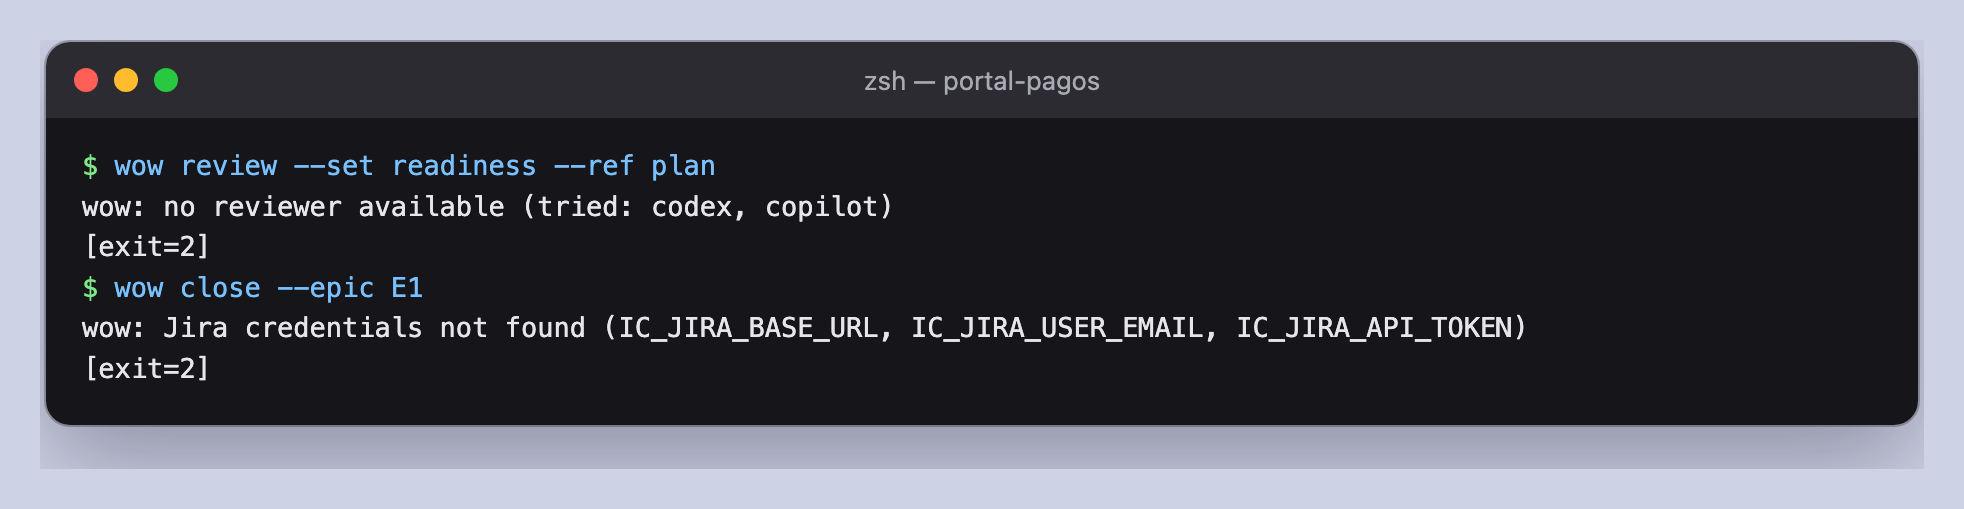
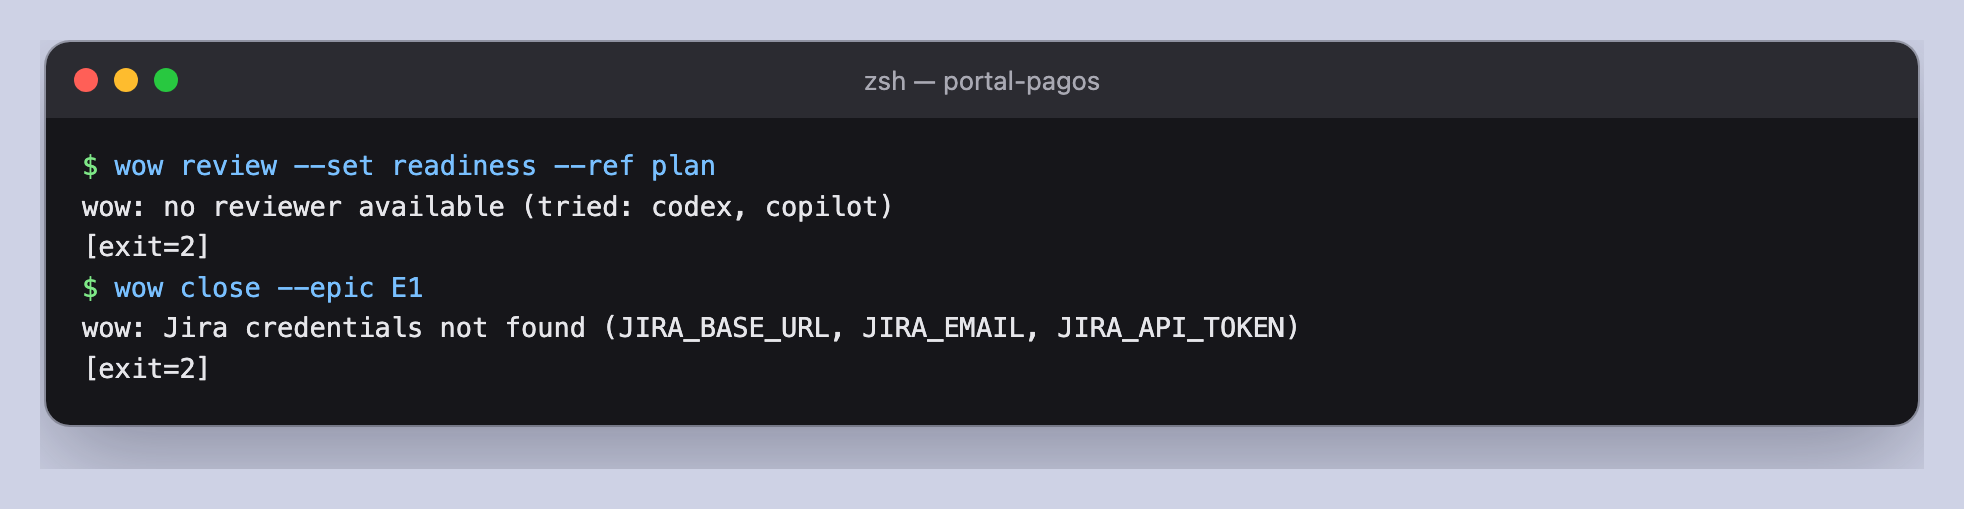
docs: documentar JIRA_* como unicas variables de Jira y regenerar capturas

Changed region(s): [[0.3106, 0.6189, 0.7765, 0.6778]]

diff --git a/docs/img/src/cursor-cierre.html b/docs/img/src/cursor-cierre.html
@@ -16,5 +16,5 @@ code{font:12.5px Menlo,monospace;background:#2b2b34;padding:1px 5px;border-radiu
 .cmd{background:#101014;border:1px solid #32323c;border-radius:8px;padding:10px 12px;font:12.5px Menlo,monospace;color:#79c0ff;margin:0 0 10px;white-space:pre-wrap}
 .in{margin:6px 22px 16px;border:1px solid #3a3a46;border-radius:10px;padding:10px 14px;color:#6c6c7a;font-size:13px}
 .right{flex:1;display:flex;flex-direction:column;min-width:0}</style><div class="win"><div class="bar"><div class="dots"><span class="r"></span><span class="y"></span><span class="g"></span></div><div class="ttl">portal-pagos — agente (Claude Code o Codex)</div></div><div class="main"><div class="side"><b>EXPLORER</b><div class="hot">▾ portal-pagos</div><div class="i">▸ portal-api</div><div class="i">▾ wow</div><div class="j">checklists</div><div class="j">context-pack</div><div class="j">pb</div><div class="j">plan</div><div class="i">▸ specs</div></div><div class="right"><div class="chat"><div class="u">Terminó la épica E1. ¿Qué queda abierto en Jira?</div><div class="a"><p>Corro el cierre en seco, que no escribe nada.</p><span class="chip"><em>Ran</em> wow close --epic E1
-<span>wow: Jira credentials not found (IC_JIRA_BASE_URL, IC_JIRA_USER_EMAIL, IC_JIRA_API_TOKEN)
+<span>wow: Jira credentials not found (JIRA_BASE_URL, JIRA_EMAIL, JIRA_API_TOKEN)
 [exit=2]</span></span><p><i>Maqueta, con datos ficticios.</i> Con las credenciales de Jira, el dry run lista las subtareas y la épica que siguen abiertas. Te muestro la lista y no corro <code>--apply</code> sin tu confirmación: es la única escritura de <code>wow</code> hacia afuera (más <code>wow jira fix-fields --apply</code>).</p></div></div><div class="in">Pedile algo al agente…</div></div></div></div>

diff --git a/docs/img/src/terminal-sin-red.html b/docs/img/src/terminal-sin-red.html
@@ -9,5 +9,5 @@
 <span class="o">wow: no reviewer available (tried: codex, copilot)</span>
 <span class="o">[exit=2]</span>
 <span class="p">$</span> <span class="k">wow close --epic E1</span>
-<span class="o">wow: Jira credentials not found (IC_JIRA_BASE_URL, IC_JIRA_USER_EMAIL, IC_JIRA_API_TOKEN)</span>
+<span class="o">wow: Jira credentials not found (JIRA_BASE_URL, JIRA_EMAIL, JIRA_API_TOKEN)</span>
 <span class="o">[exit=2]</span></div></div>

diff --git a/tests/test_docs.py b/tests/test_docs.py
@@ -54,13 +54,19 @@ class DocsTest(unittest.TestCase):
         for skill in SKILLS:
             self.assertIn(f"| `{skill}` |", showcase)
 
-    def test_the_docs_name_the_jira_variables_the_code_reads(self):
-        # config.resolve_jira_credentials reads IC_JIRA_* from the shell and .env.local; the docs must not tell a new
-        # install to set variables wow does not read there
+    def test_the_docs_name_the_generic_jira_variables_and_not_the_personal_ones(self):
+        # config.resolve_jira_credentials reads JIRA_* in every layer and IC_JIRA_* as a personal alias; a new install
+        # is told only the generic names
         for page in (DOCS / "instalacion.md", DOCS / "instalacion-detallada.md"):
             text = page.read_text(encoding="utf-8")
-            for name in ("IC_JIRA_BASE_URL", "IC_JIRA_USER_EMAIL", "IC_JIRA_API_TOKEN"):
+            for name in ("JIRA_BASE_URL", "JIRA_EMAIL", "JIRA_API_TOKEN"):
                 self.assertIn(name, text, f"{page.name} does not name {name}")
+        for path in [*PAGES, ROOT / "AGENTS.md", *(ROOT / "skills").glob("*/SKILL.md"), *(DOCS / "img" / "src").glob("*.html")]:
+            self.assertNotIn("IC_JIRA", path.read_text(encoding="utf-8"), f"{path.name} advertises the personal IC_JIRA_* names")
+
+    def test_the_guide_skill_declares_the_generic_names(self):
+        header = (ROOT / "skills" / "wow-guide" / "SKILL.md").read_text(encoding="utf-8").split("---")[1]
+        self.assertIn("JIRA_BASE_URL", header)
 
     def test_every_image_has_its_html_source(self):
         for png in (DOCS / "img").glob("*.png"):

diff --git a/docs/instalacion.md b/docs/instalacion.md
@@ -84,13 +84,13 @@ y Jira figura como no configurado.
 no por el chat. Son las variables que `wow` lee:
 
 ```bash
-export IC_JIRA_BASE_URL="https://tu-empresa.atlassian.net"   # sin barra final
-export IC_JIRA_USER_EMAIL="vos@tu-empresa.com"
-export IC_JIRA_API_TOKEN="el-token-que-copiaste"
+export JIRA_BASE_URL="https://tu-empresa.atlassian.net"   # sin barra final
+export JIRA_EMAIL="vos@tu-empresa.com"
+export JIRA_API_TOKEN="el-token-que-copiaste"
 ```
 
-Opcionales: `IC_JIRA_PROJECT_KEY` e `IC_JIRA_EPIC_CHILD_MODE`. Como último recurso, `wow` lee `JIRA_BASE_URL`,
-`JIRA_EMAIL` y `JIRA_API_TOKEN` del `.spec-kit/.env` de Spec-Kit. Nunca las imprime ni las commitees.
+Opcionales: `JIRA_PROJECT_KEY` e `JIRA_EPIC_CHILD_MODE`. Como último recurso, `wow` lee las mismas variables del
+`.spec-kit/.env` de Spec-Kit. Nunca las imprime ni las commitees.
 
 **c) Comprobá que las ve.** Abrí una terminal nueva (para que cargue las variables) y pedile:
 
@@ -154,7 +154,7 @@ Como `install.sh` solo crea enlaces hacia tu clon, un `git pull` actualiza el CL
 |---|---|---|
 | `wow: command not found` | `~/.local/bin` no está en el PATH | Agregalo a tu `~/.zshrc` y abrí una terminal nueva |
 | `refusing to replace …: it is not a symlink` y código 1 | Ya hay un directorio real con el nombre de una skill | Movelo a otro lado y volvé a correr `./install.sh --skills`; el instalador no lo borra |
-| Jira figura `sin verificar: jira no configurado` | Las variables `IC_JIRA_*` no llegaron al proceso | Revisá el [paso 3](#3-credenciales-de-jira) y abrí una terminal nueva |
+| Jira figura `sin verificar: jira no configurado` | Las variables `JIRA_*` no llegaron al proceso | Revisá el [paso 3](#3-credenciales-de-jira) y abrí una terminal nueva |
 | Jira responde como anónimo o da 401 | El token se creó con alcance | Creá uno nuevo con **Create API token** a secas |
 | `wow review` sale con 2: `no reviewer available` | No hay Codex ni Copilot en el PATH, o no pasaron la prueba | Instalá y logueá uno de los dos |
 | `wow sk run` sale con 2: `ric.py not found` | Falta la skill `run-in-cursor` | Instalala (su `install.sh`) o apuntá `WOW_RIC` a su `ric.py` |

diff --git a/docs/referencia.md b/docs/referencia.md
@@ -31,7 +31,7 @@ con el mismo nombre: en ese caso sale con código 1 y dice cuál es. `--bin-dir 
 | CLI de Codex (o Copilot) logueado | revisor independiente de `wow review` y `wow pbchat audit --deep` | `wow review` sale con 2 (no pude evaluar) |
 | `gh` logueado | links a PRs en el snapshot y el dashboard | el snapshot marca GitHub como no disponible |
 | Skill `run-in-cursor`, `cursor-agent` y tmux | `wow sk run` | `wow sk run` sale con 2 y dice que no encuentra `run-in-cursor` (`ric.py`; se puede apuntar con `WOW_RIC`) |
-| Token de Jira **sin scopes** (`IC_JIRA_*`, ver abajo) | estado de las épicas y `wow close` | Jira figura como no configurado |
+| Token de Jira **sin scopes** (`JIRA_*`, ver abajo) | estado de las épicas y `wow close` | Jira figura como no configurado |
 
 Un token de Jira con scopes responde 401 contra `https://<sitio>.atlassian.net` y Jira contesta como anónimo, así que
 parece falta de permisos. La prueba que separa los dos casos es `GET /rest/api/3/myself`.
@@ -119,9 +119,9 @@ Para ver costos estimados, cargá una tabla de precios (USD por millón de token
 {"pricing": {"as_of": "2026-10-01", "per_mtok": {"claude-opus-5-5": {"in": 15, "out": 75, "cache_read": 1.5, "cache_write": 18.75}}}}
 ```
 
-Credenciales de Jira: variables `IC_JIRA_BASE_URL`, `IC_JIRA_USER_EMAIL`, `IC_JIRA_API_TOKEN`
-(opcionales: `IC_JIRA_PROJECT_KEY`, `IC_JIRA_EPIC_CHILD_MODE`). Se leen del shell, de `.env.local`
-o, como último recurso, de `JIRA_*` en `.spec-kit/.env`. `wow` nunca las imprime.
+Credenciales de Jira: variables `JIRA_BASE_URL`, `JIRA_EMAIL`, `JIRA_API_TOKEN`
+(opcionales: `JIRA_PROJECT_KEY`, `JIRA_EPIC_CHILD_MODE`). Se leen, en este orden, del shell, de `.env.local`
+y, como último recurso, del `.spec-kit/.env`. `wow` nunca las imprime.
 
 **Deprecado:** `wow run-wu` (`cursor-agent -p`; las WUs se corren en Cursor interactivo y el hook `stop` mide el
 consumo) y `wow pack prd|rfc --full` (los paquetes de registro salen completos). Siguen funcionando y avisan por stderr.

diff --git a/docs/instalacion-detallada.md b/docs/instalacion-detallada.md
@@ -70,13 +70,13 @@ Sin credenciales todo funciona menos lo que lee o escribe Jira: ahí `wow` marca
 sintaxis `export`):
 
 ```bash
-export IC_JIRA_BASE_URL="https://tu-empresa.atlassian.net"   # sin barra final
-export IC_JIRA_USER_EMAIL="vos@tu-empresa.com"
-export IC_JIRA_API_TOKEN="el-token-que-copiaste"
+export JIRA_BASE_URL="https://tu-empresa.atlassian.net"   # sin barra final
+export JIRA_EMAIL="vos@tu-empresa.com"
+export JIRA_API_TOKEN="el-token-que-copiaste"
 ```
 
-`wow` busca cada variable en este orden: el shell, `.env.local` y, como último recurso, las `JIRA_BASE_URL`, `JIRA_EMAIL` y
-`JIRA_API_TOKEN` del `.spec-kit/.env`. Opcionales: `IC_JIRA_PROJECT_KEY` e `IC_JIRA_EPIC_CHILD_MODE`. Nunca se
+`wow` busca cada variable en este orden: el shell, `.env.local` y, como último recurso, el `.spec-kit/.env`.
+Opcionales: `JIRA_PROJECT_KEY` e `JIRA_EPIC_CHILD_MODE`. Nunca se
 imprimen y no se commitean.
 
 **c) Comprobalo.** Con las variables cargadas, `wow progress` deja de decir `sin verificar: jira no configurado` en los

diff --git a/README.md b/README.md
@@ -70,7 +70,7 @@ Después, `wow --version` comprueba que el CLI está en el PATH (si falla, agreg
 | Skill `run-in-cursor`, `cursor-agent` y tmux | `wow sk run` | `wow sk run` sale con 2 y dice que no encuentra `run-in-cursor` |
 | CLI de Codex (o Copilot) logueado | revisor independiente de `wow review` y `wow pbchat audit --deep` | `wow review` sale con 2 (no pude evaluar) |
 | `gh` logueado | links a PRs en el snapshot y el dashboard | el snapshot marca GitHub como no disponible |
-| Token de Jira **sin scopes** (variables `IC_JIRA_*`) | estado de las épicas y `wow close` | Jira figura como no configurado |
+| Token de Jira **sin scopes** (variables `JIRA_*`) | estado de las épicas y `wow close` | Jira figura como no configurado |
 
 El paso a paso de las credenciales está en la [instalación detallada](docs/instalacion-detallada.md#3-credenciales-de-jira).
 

diff --git a/skills/wow-guide/SKILL.md b/skills/wow-guide/SKILL.md
@@ -1,7 +1,7 @@
 ---
 name: wow-guide
 description: Tell the operator where the two WayOfWork flows stand (Product Brain and Spec-Kit, joined only by a Jira epic key) and what to do next: each flow's checklist with its percent complete, blockers, and up to three next steps with where to run them, which model and the exact command. Use when the user asks "what's next", "where am I", "qué sigue", or opens a work session.
-compatibility: Requires the `wow` CLI on PATH (./install.sh in the WayOfWork repo; Python 3.9+ and git). Jira status needs IC_JIRA_* credentials, otherwise it reports Jira as not configured.
+compatibility: Requires the `wow` CLI on PATH (./install.sh in the WayOfWork repo; Python 3.9+ and git). Jira status needs JIRA_BASE_URL, JIRA_EMAIL and JIRA_API_TOKEN, otherwise it reports Jira as not configured.
 ---
 
 # wow-guide

diff --git a/AGENTS.md b/AGENTS.md
@@ -9,7 +9,7 @@ iniciativa por Product Brain (registro), Spec-Kit (ejecución en Cursor) y Jira,
 2. Verificar con `wow --version`. Si no está en el PATH, agregá `~/.local/bin`.
 3. Correr `wow hook install-cursor` (una vez por máquina).
 4. Revisar los requisitos de la tabla del README. Pedile al usuario lo que falte, sin instalar credenciales por tu cuenta.
-   Las de Jira van en el shell o en `.env.local` como `IC_JIRA_*`, y nunca se imprimen ni se commitean.
+   Las de Jira van en el shell o en `.env.local` como `JIRA_BASE_URL`, `JIRA_EMAIL` y `JIRA_API_TOKEN`, y nunca se imprimen ni se commitean.
 
 ## Usar
 

diff --git a/docs/showcase.md b/docs/showcase.md
@@ -334,7 +334,7 @@ informa como anomalía de Spec-Kit y bloquea la corrida. Cada escritura queda en
 | Situación | Resultado |
 |---|---|
 | La épica no se exportó a Jira | `wow close` lo dice y pide `wow plan freeze --epics E1=<CLAVE>` primero |
-| Faltan las credenciales de Jira | Sale con 2 y nombra las tres variables `IC_JIRA_*` (ver la captura del caso 7) |
+| Faltan las credenciales de Jira | Sale con 2 y nombra las tres variables `JIRA_*` (ver la captura del caso 7) |
 | La pantalla del tipo de issue no tiene campo de puntos | `fix-fields` lo dice: se arregla en la configuración de Jira |
 
 ---
